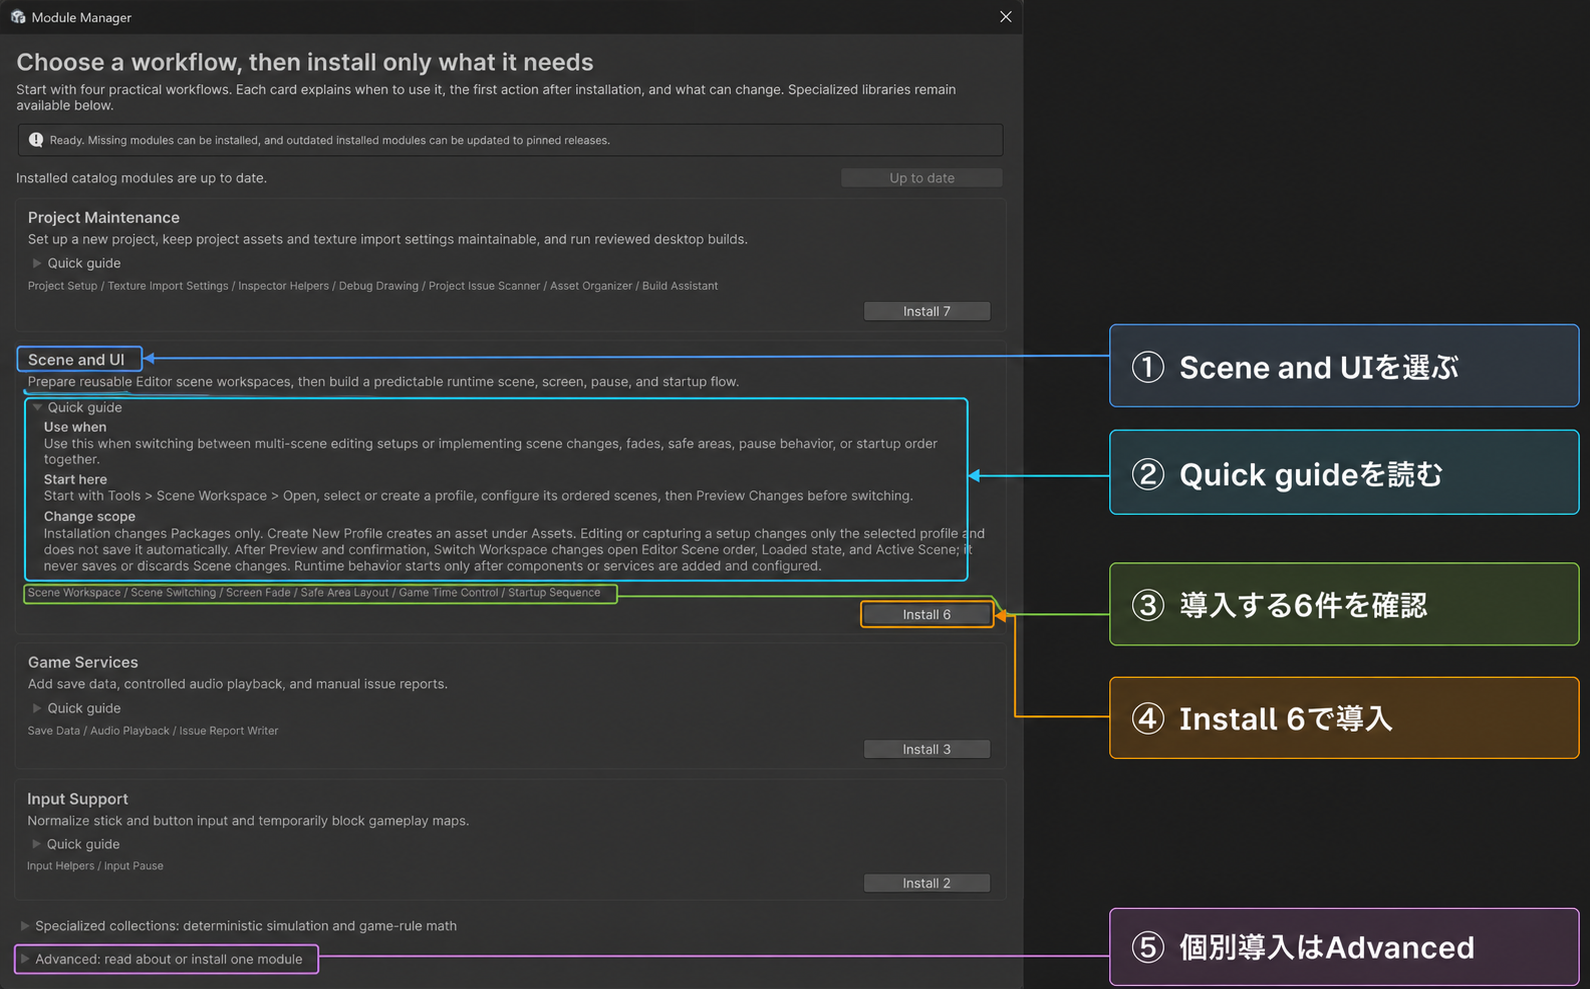
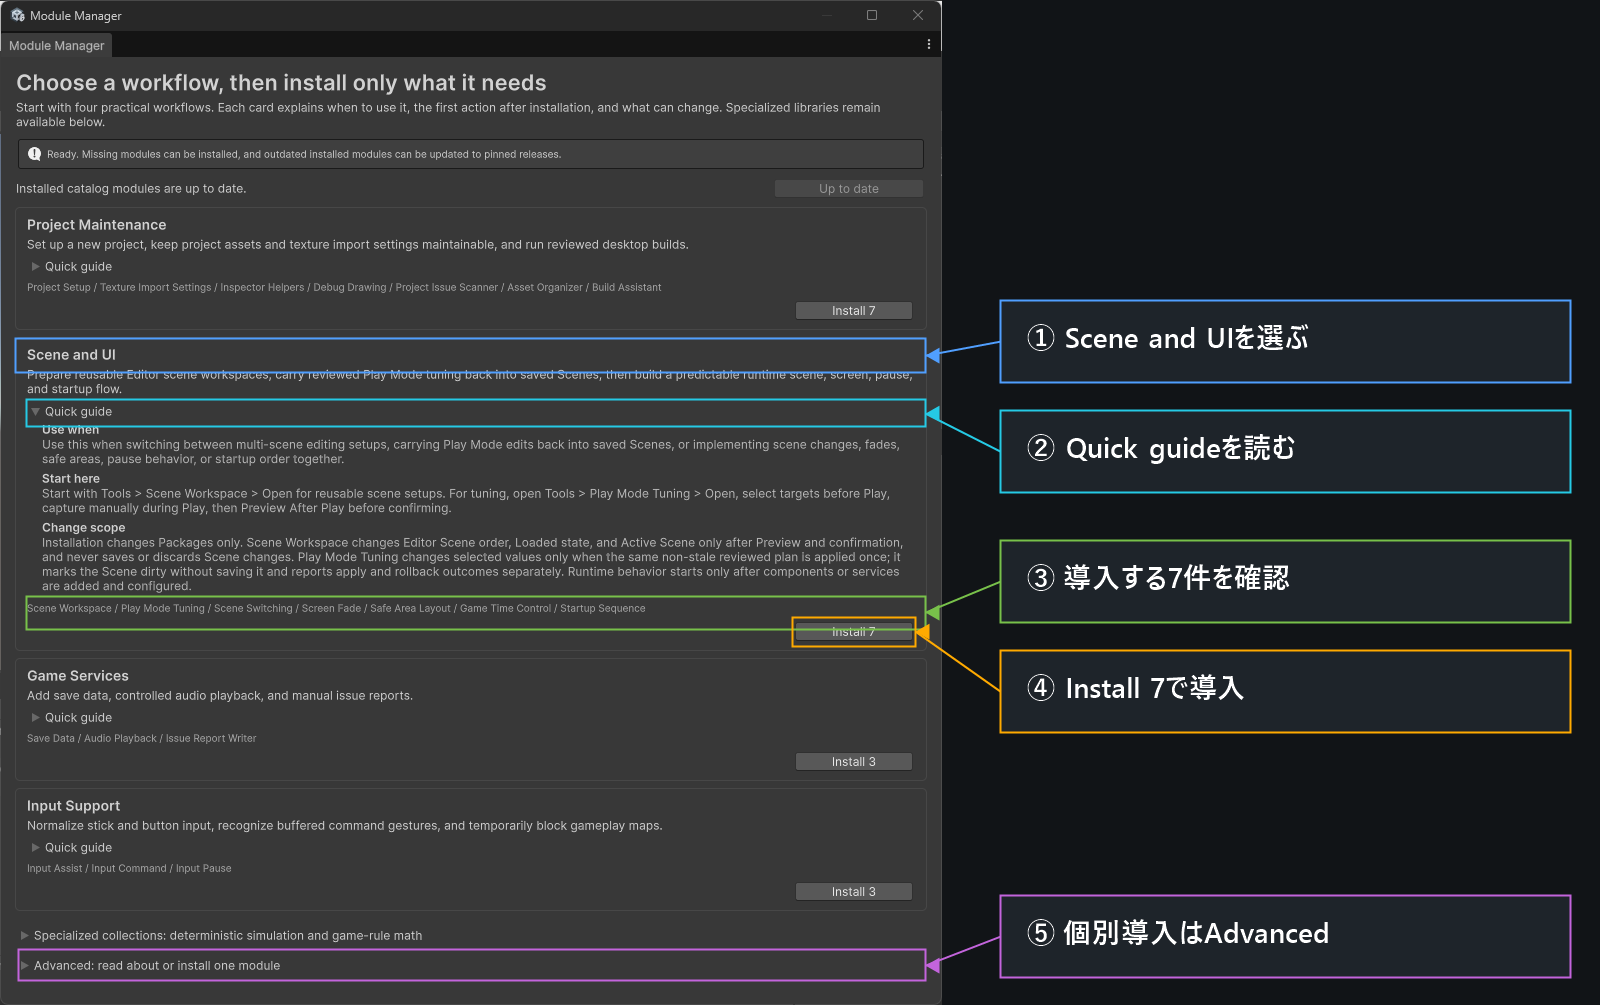
other (Module Manager配布情報): 1.5.0の操作案内と実画面を更新

diff --git a/ModuleInstaller/CHANGELOG.md b/ModuleInstaller/CHANGELOG.md
@@ -1,5 +1,14 @@
 # Changelog
 
+## [1.5.0] - 2026-08-24
+
+- 65個から統合された24 packageのうち、公開tagを持つ22件を6 bundle（`7 / 7 / 3 / 3 / 1 / 1`）としてcatalogへ整理しました。
+- Input Assist 2.0.0、Input Command 1.0.0、Gameplay Rules 1.0.0、Deterministic Simulation 1.0.0へ、旧44 packageの機能をnamespaceと公開型名を維持したまま集約しました。
+- Scene and UIへPlay Mode Tuning 1.0.0を追加し、7件構成へ更新しました。対象選択、Play Mode中の手動取り込み、非変更Preview、確認、同一・未使用計画の単回反映、Scene dirty、保存は手動、ApplyとRollbackの個別結果を案内します。
+- Input SupportへInput Command 1.0.0を追加し、Input Assist、Input Command、Input Gateの3件構成へ更新しました。
+- 統合前のUPM package IDまたは`Assets/Modules/<旧Folder>`が残る場合、導入・更新ともPackage Managerの変更前に停止する競合検査を追加しました。旧packageやsource copyは自動削除せず、利用者が内容を確認して手動で移行します。
+- 個別一覧を22件へ更新し、bundle、更新一覧、競合表示、README導線の回帰testを新しいcatalogへ合わせました。
+
 ## [1.4.9] - 2026-08-23
 
 - 「シーン作業セット」v1.0.0をcatalogとScene and UIへ追加しました。
